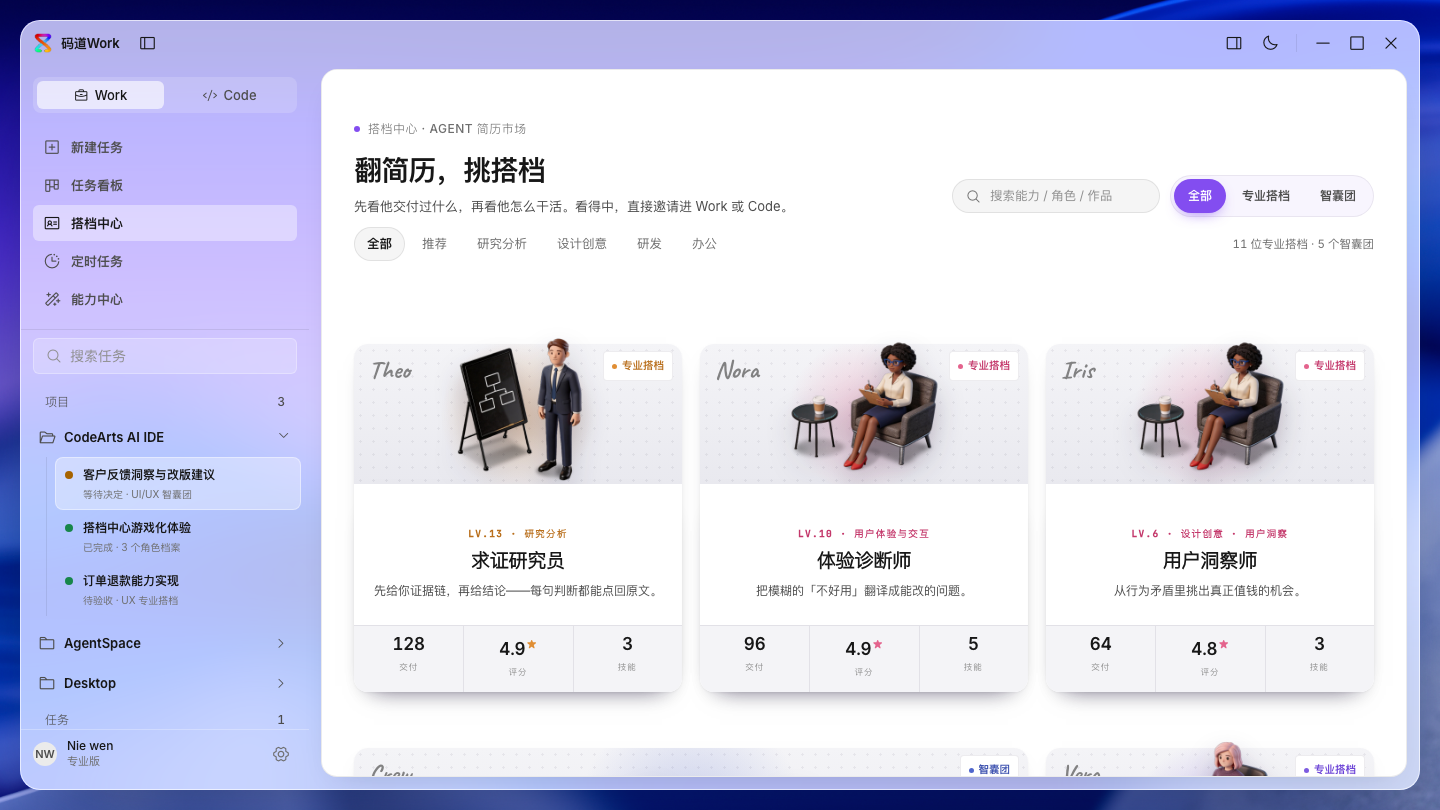
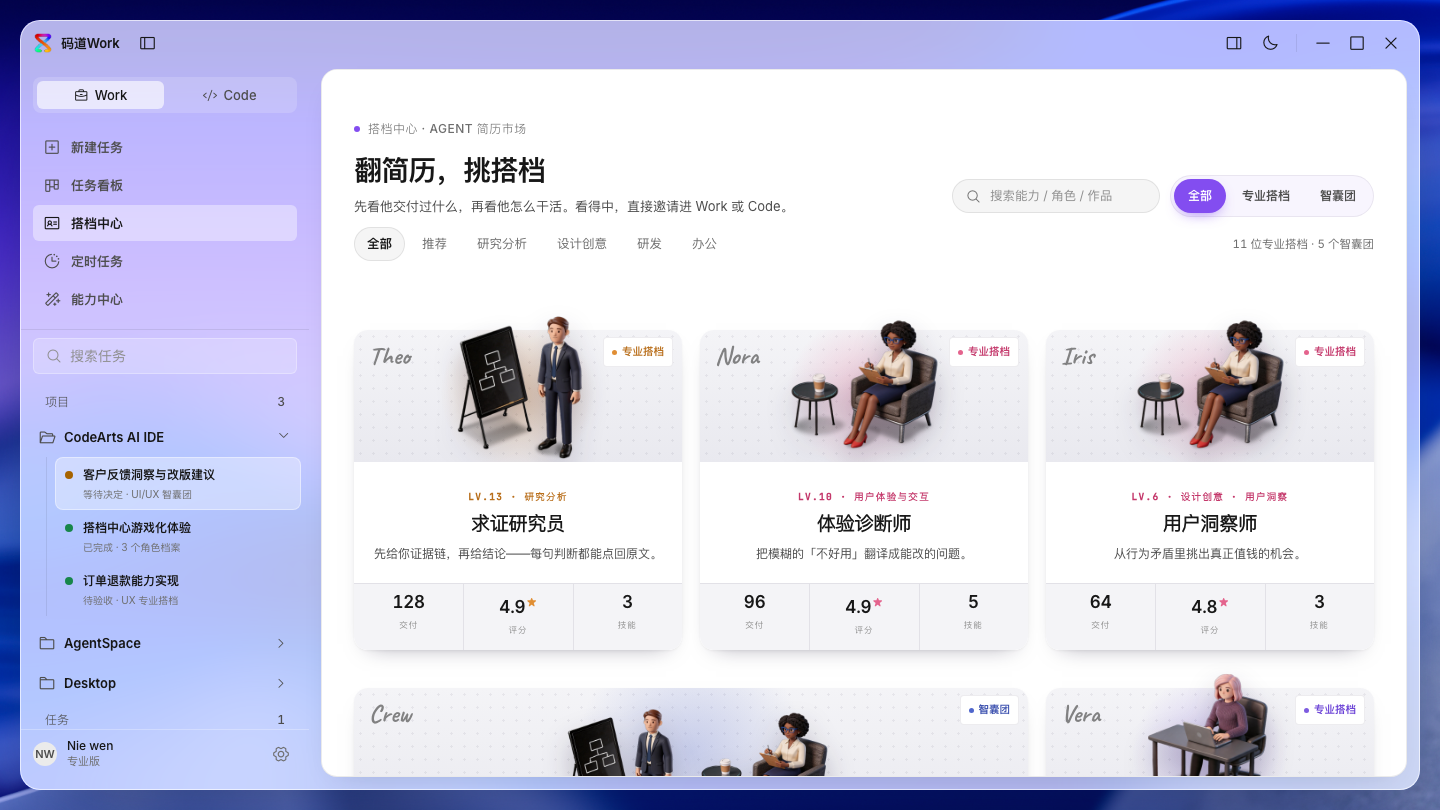
英雄卡:收紧卡高与行距
- 按实测内容高度重定尺寸:卡身 348→320(团队 352→346、投递中 512→480),
  立绘台 140→132、hover 96→78,卡内多余留白从 38px 降到 14px
- 网格行距 56→38、上留白 46→32,立绘破框仍有余量不压上一行
- 两态逐卡复测:白身与卡底全部齐平(0px)

diff --git a/codearts-space/index.html b/codearts-space/index.html
@@ -2735,8 +2735,8 @@
       grid-template-columns: repeat(auto-fill, minmax(272px, 1fr));
       grid-auto-flow: row dense;
       /* 立绘要从卡上沿破出去,行距和上留白都得先让出来 */
-      gap: 56px 18px;
-      padding-top: 46px;
+      gap: 38px 18px;
+      padding-top: 32px;
       align-items: stretch;
     }
 
@@ -2751,12 +2751,12 @@
       width: 100%;
       height: 100%;
       /* 下半是绝对定位的(展开才不会顶动网格),所以卡高得自己撑住 */
-      min-height: 348px;
+      min-height: 320px;
       text-align: left;
       font-family: inherit;
       /* 卡面整体是中性灰白,颜色只当点缀:立绘身后的光晕、等级字、细节里的小色块 */
-      --art-h: 140px;
-      --art-hover: 96px;
+      --art-h: 132px;
+      --art-hover: 78px;
       /* 展开是「长高」不是弹出,所以走一条更长更缓的曲线 */
       --hc-slide: 380ms;
       --hc-fade: 240ms;
@@ -2898,7 +2898,7 @@
     }
     .hc-flag i { font-size: 11px; }
     /* 投递中的卡多了一张附函,卡身要先长够 —— 否则展开时会压到下一行 */
-    .feed-card.is-applied { min-height: 512px; box-shadow: 0 0 0 2px rgba(217, 178, 60, .85), 0 14px 28px -18px rgba(80, 62, 0, .6); }
+    .feed-card.is-applied { min-height: 480px; box-shadow: 0 0 0 2px rgba(217, 178, 60, .85), 0 14px 28px -18px rgba(80, 62, 0, .6); }
     .feed-card.is-applied:hover { box-shadow: 0 0 0 2px rgba(217, 178, 60, .95), 0 30px 46px -24px rgba(80, 62, 0, .6); }
 
     /* ---- 白身 · 等级 / 名字 / 一句自述 / 展开的细节 / 数值条 ----
@@ -3022,7 +3022,7 @@
     }
 
     /* ---- 智囊团 · 占两个卡位的「阵容卡」 ---- */
-    .feed-card.fc-team { --art-h: 150px; --art-hover: 104px; min-height: 352px; }
+    .feed-card.fc-team { --art-h: 142px; --art-hover: 88px; min-height: 346px; }
     .feed-card.fc-team .hc-halo { width: 300px; height: 176px; }
     .feed-card.fc-team .hc-lower { text-align: left; }
     .feed-card.fc-team .hc-face { display: flex; gap: 20px; align-items: flex-start; }
